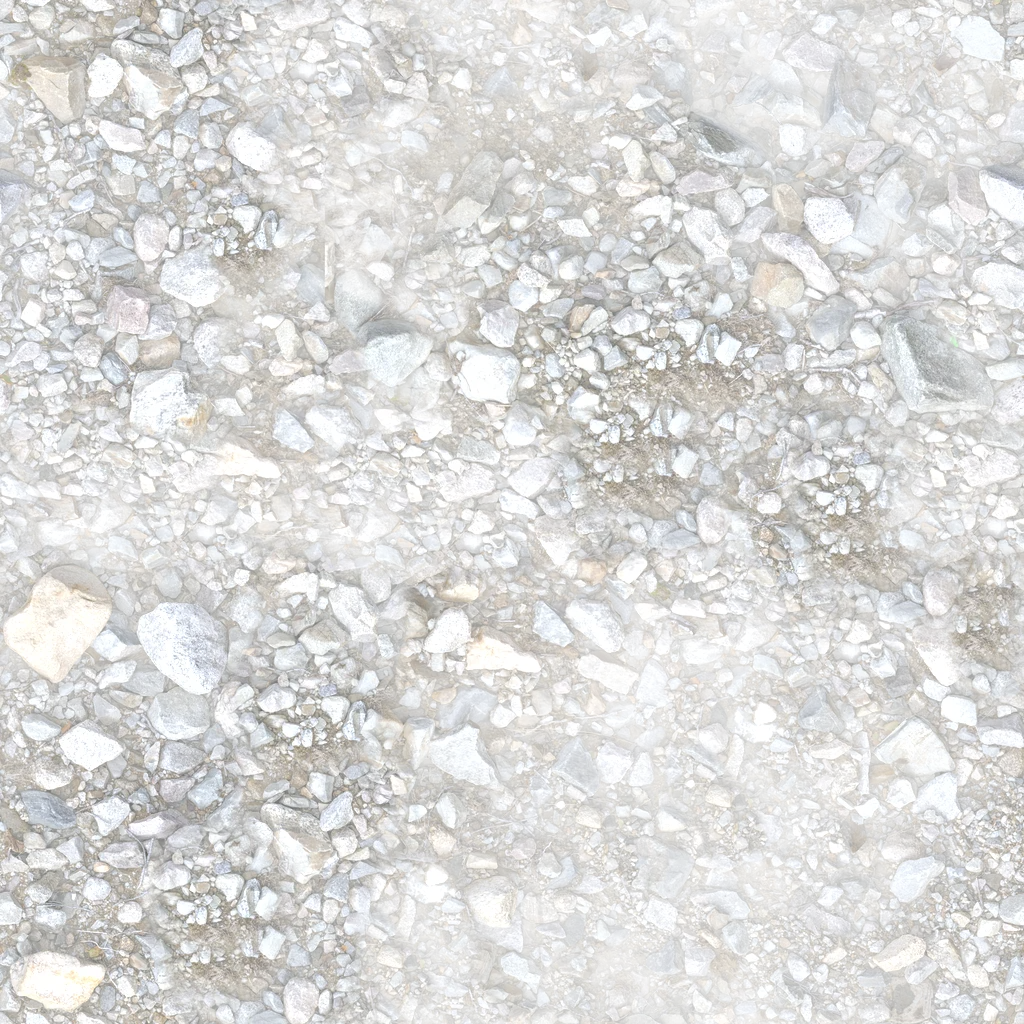
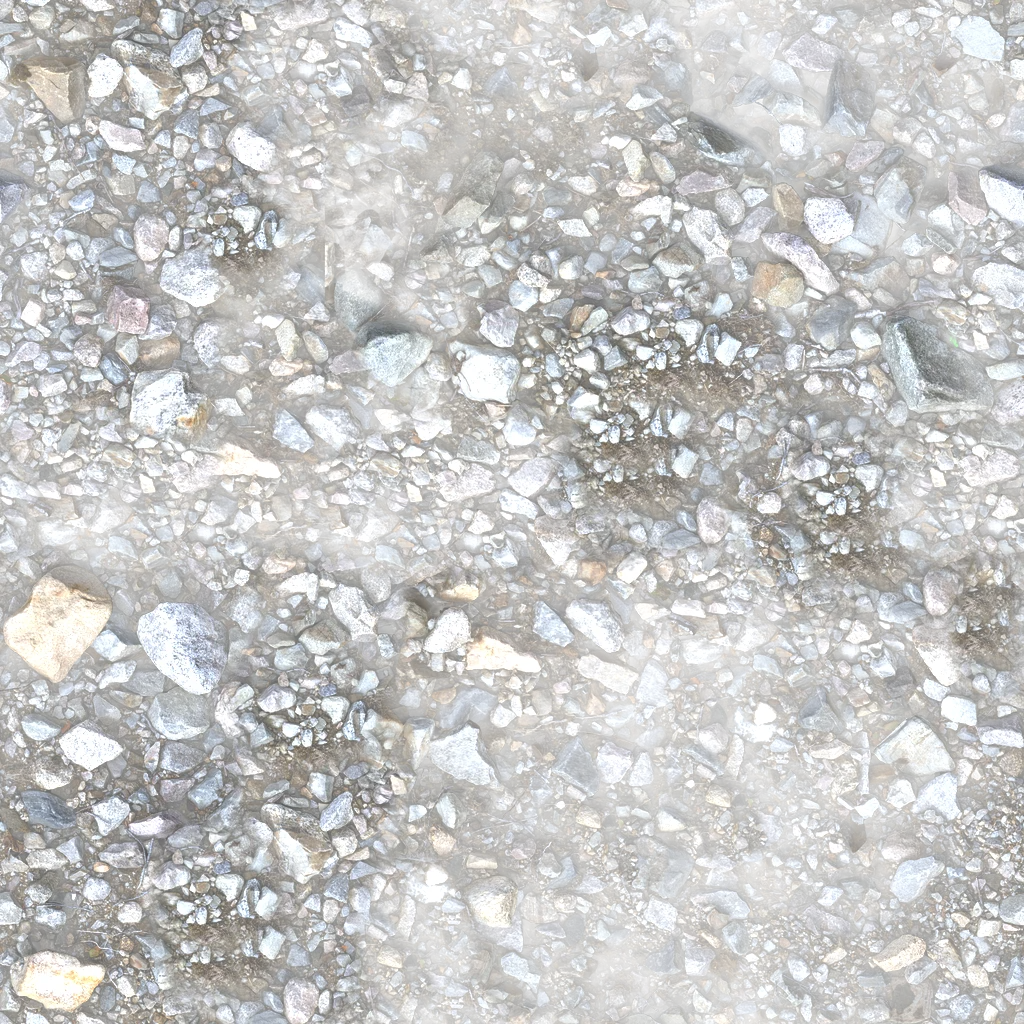
D223: Scan-Modulation linear speichern
Als Wurzel gespeichert mitteln die Mipmaps die Wurzel; das Quadrat des
Mittels ist kleiner als das Mittel der Quadrate, die Ferne wurde dunkler.

Claude-Session: https://claude.ai/code/session_019NVvDZ9khk56CaYgAKCb4K

diff --git a/src/world/bodenmaterial.ts b/src/world/bodenmaterial.ts
@@ -137,7 +137,8 @@ const VARIATION_GLSL = /* glsl */ `
  * (`mossy_rock`, triplanar). Je Schicht zwei Bilder:
  *
  * - `*-farbe.webp`: RGB ist **Modulation**, nicht Farbe — linear durch den Mittelwert des Scans
- *   geteilt, Mittel 0,5, als Wurzel gespeichert. Der Farbton kommt weiter aus Palette und Biom
+ *   geteilt, Mittel 0,5, linear gespeichert (als Wurzel
+ *   gespeichert mitteln die Mipmaps die Wurzel, und die Ferne wird dunkler). Der Farbton kommt weiter aus Palette und Biom
  *   (Art Direction, ADR-0012), der Scan liefert Hell/Dunkel und Farbwechsel innerhalb davon.
  *   A ist die Höhe des Scans: Die Schichten mischen über sie (Steine ragen aus dem Schutt,
  *   Moos aus dem Laub), nicht über eine weiche Rampe.
@@ -149,8 +150,8 @@ const VARIATION_GLSL = /* glsl */ `
  */
 const FLACH = new THREE.DataTexture(new Uint8Array([128, 128, 255, 255]), 1, 1, THREE.RGBAFormat, THREE.UnsignedByteType);
 FLACH.needsUpdate = true;
-/** Modulation 1,0 (gespeichert √0,5 ≈ 181) und mittlere Höhe. */
-const NEUTRAL = new THREE.DataTexture(new Uint8Array([181, 181, 181, 128]), 1, 1, THREE.RGBAFormat, THREE.UnsignedByteType);
+/** Modulation 1,0 (gespeichert 0,5) und mittlere Höhe. */
+const NEUTRAL = new THREE.DataTexture(new Uint8Array([128, 128, 128, 128]), 1, 1, THREE.RGBAFormat, THREE.UnsignedByteType);
 NEUTRAL.needsUpdate = true;
 
 const SCHICHTEN = ['wiese', 'waldboden', 'schutt', 'fels'] as const;
@@ -245,7 +246,7 @@ const SCAN_GLSL = /* glsl */ `
 
   vec3 scanMod = sWiese.rgb * scanGewicht.x + sWald.rgb * scanGewicht.y
                + sSchutt.rgb * scanGewicht.z + sFels.rgb * scanGewicht.w;
-  scanMod = scanMod * scanMod * 2.0;
+  scanMod *= 2.0;
   diffuseColor.rgb *= mix(vec3(1.0), scanMod, 0.85);
 `;
 

diff --git a/assets/HERKUNFT.md b/assets/HERKUNFT.md
@@ -96,7 +96,7 @@ Gescannte Bodenschichten von Poly Haven. CC0, also ohne Pflicht zur Nennung; hie
 Herkunft trotzdem, damit niemand rätseln muss. Lizenz geprüft am 15.10.2026 auf
 <https://polyhaven.com/license> („Our assets are all licensed as CC0“). Geladen in 2K (Diffuse,
 `nor_gl`, Displacement, JPG) über `api.polyhaven.com/files/<id>`, gepackt auf 1024² WebP:
-`*-farbe` = Diffuse linear durch den Scan-Mittelwert geteilt (Mittel 0,5, als Wurzel gespeichert)
+`*-farbe` = Diffuse linear durch den Scan-Mittelwert geteilt (Mittel 0,5, linear gespeichert)
 + Displacement im Alphakanal; `*-normal` = `nor_gl` verkleinert. Rohdaten liegen nicht im Repo
 (`.cache/scans/`, gitignored).
 
